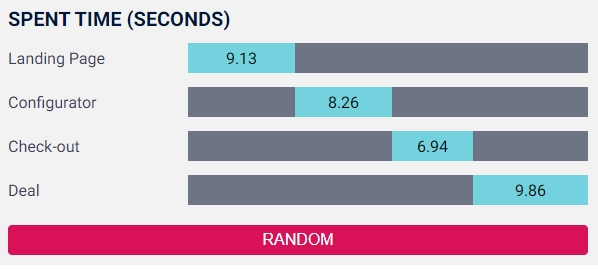
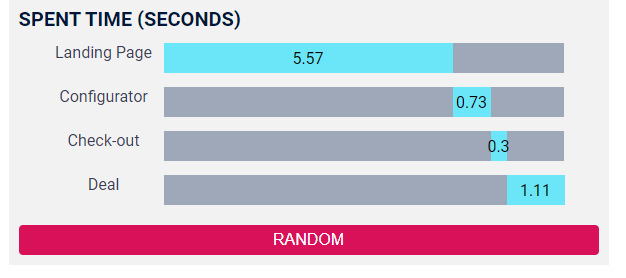
Better responsive

diff --git a/src/components/TimeChart/TimeChart.scss b/src/components/TimeChart/TimeChart.scss
@@ -1,5 +1,6 @@
 .time {
-  width: 600px;
+  max-width: 600px;
+
   padding: 10px;
   margin: 0 auto;
 
@@ -19,8 +20,8 @@
 
   &__item {
     display: flex;
-    align-items: center;
-    justify-content: space-between;
+    justify-content: center;
+    flex-wrap: wrap;
 
     margin-bottom: 14px;
 
@@ -33,7 +34,9 @@
     max-width: 100px;
     min-width: 100px;
     margin-right: 10px;
+    margin-bottom: 4px;
 
+    text-align: center;
     color: #364156;
   }
 
@@ -42,21 +45,19 @@
 
     width: 400px;
     height: 30px;
-    background-color: #6d7585;
+    background-color: #9fa8b9;
   }
 
   &__data-fill {
     position: absolute;
-    left: 10px;
 
     display: flex;
     justify-content: center;
     align-items: center;
 
     height: inherit;
-    width: 100px;
 
-    background-color: #73d2de;
+    background-color: #6be6f8;
   }
 
   &__data-value {

diff --git a/src/components/TimeItem/TimeItem.tsx b/src/components/TimeItem/TimeItem.tsx
@@ -1,26 +1,38 @@
-import React from 'react';
+import React, { useEffect, useRef } from 'react';
 
 type Props = {
   name: string,
   left: number,
   fill: number,
   value: number,
+  setWidth: CallableFunction,
 };
 
 export const TimeItem: React.FC<Props> = (props) => {
+  const fillRef = useRef<HTMLDivElement>(null);
+
   const {
     name,
     left,
     fill,
     value,
+    setWidth,
   } = props;
+
+  useEffect(() => {
+    window.addEventListener('resize', () => {
+      if (fillRef.current) {
+        setWidth(fillRef.current.clientWidth);
+      }
+    });
+  }, []);
 
   return (
     <div className="time__item">
       <div className="time__name">
         {name}
       </div>
-      <div className="time__data">
+      <div className="time__data" ref={fillRef}>
         <div
           className="time__data-fill"
           style={{

diff --git a/src/components/TimeChart/TimeChart.tsx b/src/components/TimeChart/TimeChart.tsx
@@ -12,8 +12,8 @@ import { TimeItem } from '../TimeItem/TimeItem';
 
 export const TimeChart: React.FC = () => {
   const [times, setTimes] = useState<spentTime[]>(timeSpent);
+  const [areaWidth, setAreaWidth] = useState(400);
 
-  const areaWidth = 400;
   const autoTimeClick = 31800;
 
   const wholeTime = times.reduce((a, b) => a + b.time, 0);
@@ -61,6 +61,7 @@ export const TimeChart: React.FC = () => {
             left={offsetLeft(index)}
             fill={elementsWidth[index]}
             value={times[index].time}
+            setWidth={setAreaWidth}
             key={time.name + time.time}
           />
         ))}
